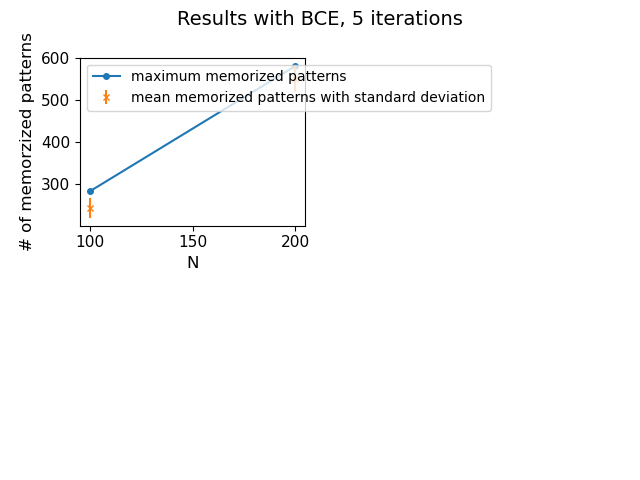
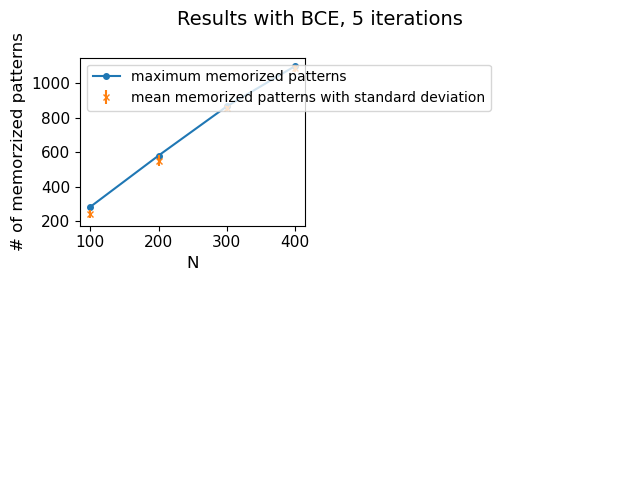
added results

diff --git a/memoryPlot.py b/memoryPlot.py
@@ -36,17 +36,17 @@ mean_of_patterns.append(550)
 std.append(32)
 dataset_size.append(600)
 
-# N.append(300)
-# number_of_patterns.append()
-# mean_of_patterns.append()
-# std.append()
-# dataset_size.append()
+N.append(300)
+number_of_patterns.append(865)
+mean_of_patterns.append(852.2)
+std.append(13.18)
+dataset_size.append(900)
 
-# N.append(400)
-# number_of_patterns.append()
-# mean_of_patterns.append()
-# std.append()
-# dataset_size.append()
+N.append(400)
+number_of_patterns.append(1098)
+mean_of_patterns.append(1083.6)
+std.append(18.8)
+dataset_size.append(1100)
 
 plt.close("all")
 plt.subplot(2, 2, 1)
@@ -98,17 +98,17 @@ number_of_patterns.append(653)
 mean_of_patterns.append(0)
 std.append(5)
 
-# N.append(300)
-# number_of_patterns.append()
-# mean_of_patterns.append()
-# std.append()
-# dataset_size.append()
+N.append(300)
+number_of_patterns.append(900)
+mean_of_patterns.append(0)
+std.append(0)
+dataset_size.append(0)
 
-# N.append(400)
-# number_of_patterns.append()
-# mean_of_patterns.append()
-# std.append()
-# dataset_size.append()
+N.append(400)
+number_of_patterns.append(1473)
+mean_of_patterns.append(1333.2)
+std.append(91.18)
+dataset_size.append(1500)
 
 plt.figure()
 plt.subplot(2, 2, 1)
